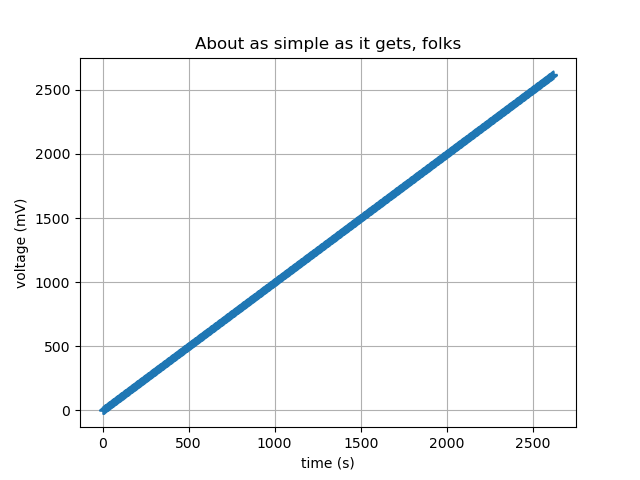
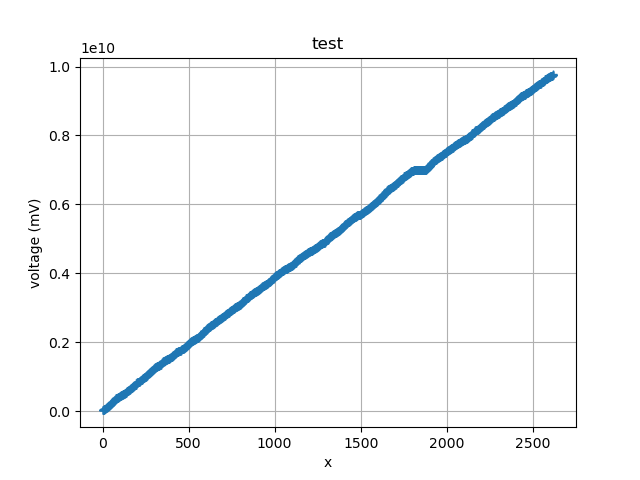
With working graph

diff --git a/test_import_root/test_import.py b/test_import_root/test_import.py
@@ -12,12 +12,12 @@ hits_tree = 'board_57'
 data = uproot.open('C:\\Users\\Pascal\\Desktop\\TP4a\\git\\test_data_loading\\data_0000.root')
 
 x = data['event_data']['evt_number']
-y = data['event_data']['timestamp']
-print()
+y = data['event_data']['n_hits']
+print(y)
 print(data['event_data'].keys())
 print(x)
 fig, ax = plt.subplots()
-ax.plot([],'+')
+ax.plot(y,'+')
 
 ax.set(xlabel='x', ylabel='voltage (mV)',
        title='test')
